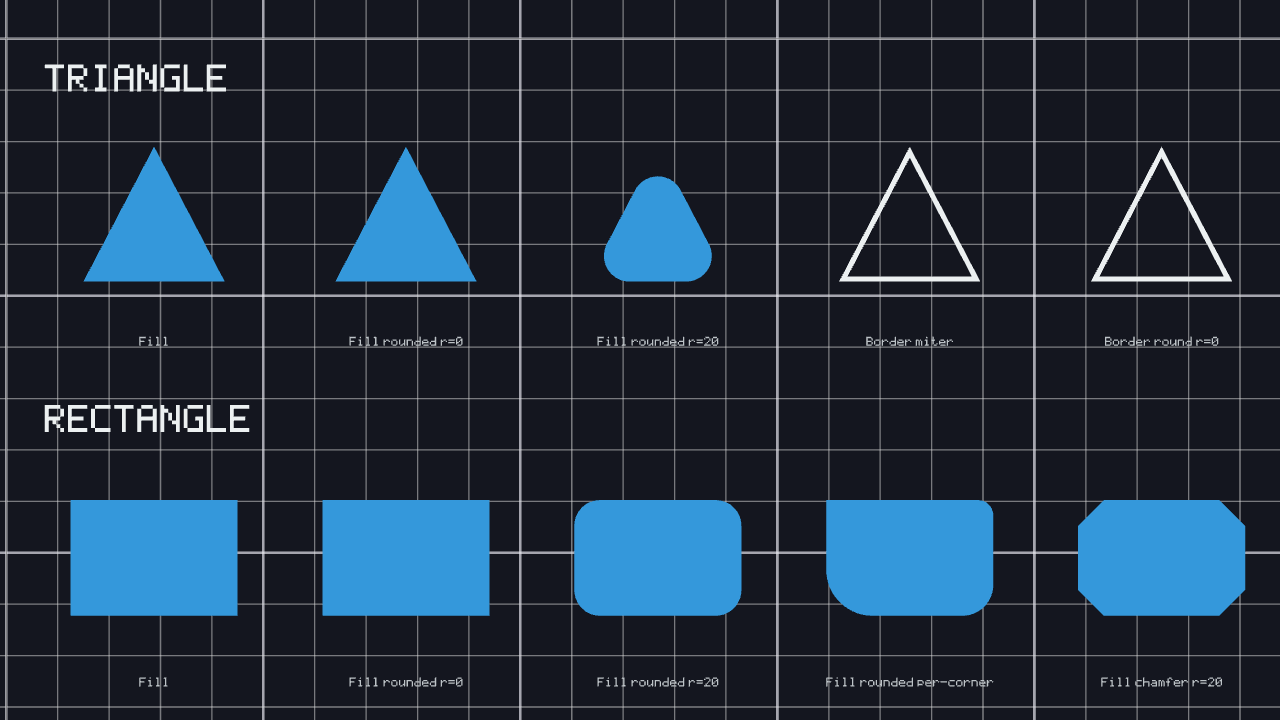
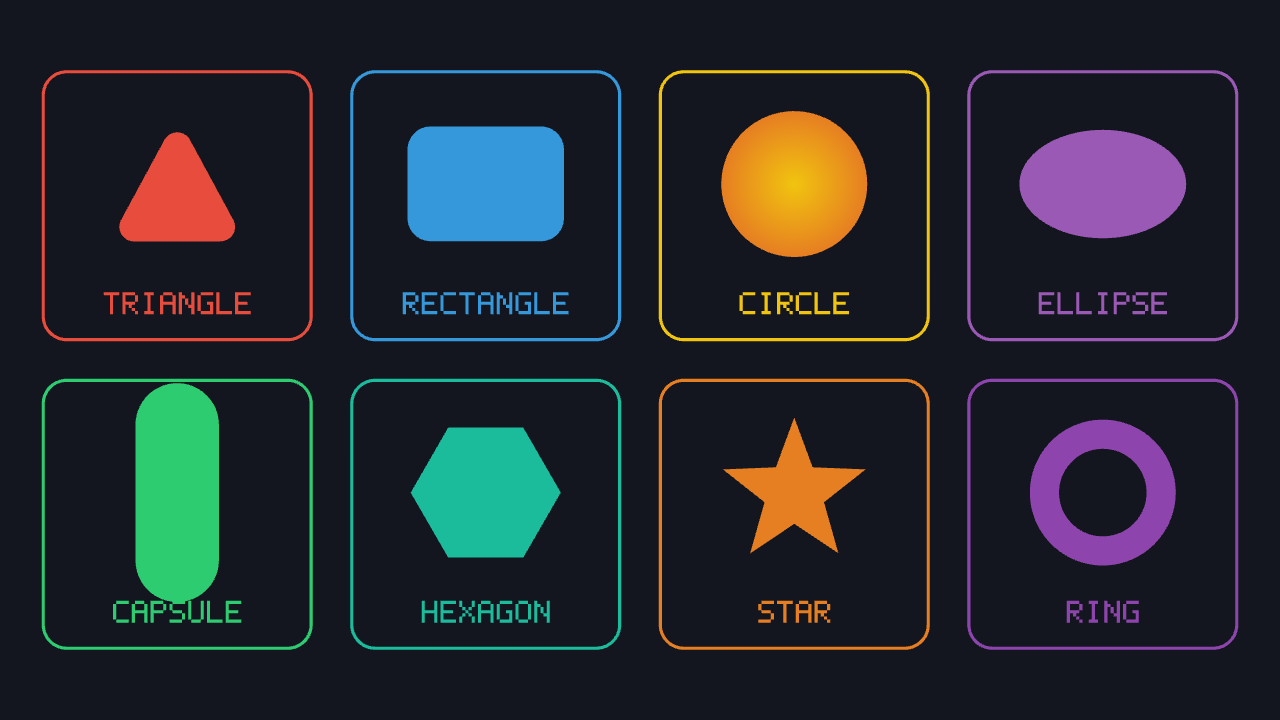
feat: add a curated Showcase2D/Showcase3D presentation view to the sample
The dev galleries (Gallery2D/Gallery3D) exist to eyeball every Fill/Border/Draw
variant at once and are unusable as marketing screenshots -- too dense, too
small, too much debug chrome (grid, axis, wireframes). Showcase2D/Showcase3D
are a separate, curated view (toggled with S alongside each dev gallery) built
specifically to produce clean README/guide images: a handful of shapes shown
large with real labels, bordered cards in 2D and a single depth-consistent row
with contact shadows in 3D. Regenerated img/hero.png, img/gallery_2d.png,
img/gallery_3d.png from it.

diff --git a/samples/MonoPrimitives.Sample/Game1.cs b/samples/MonoPrimitives.Sample/Game1.cs
@@ -35,6 +35,13 @@ public class Game1 : Game
     private Vector2 _gallery2DSize;
     private bool _tabWasDown;
 
+    // A second, curated view alongside each dev gallery -- Showcase2D/Showcase3D, toggled with S.
+    // Framed once on toggle-in via FitBounds (not every frame, so free-fly/pan still works
+    // afterward), not part of the library: exists purely to produce clean README/guide
+    // screenshots instead of the dev galleries' dense every-variant grids.
+    private bool _showcaseMode;
+    private bool _sWasDown;
+
     private const int ScreenSizeX = 1280;
     private const int SCreenSizeY = 720;
 
@@ -112,6 +119,10 @@ public class Game1 : Game
         if (tabDown && !_tabWasDown) _show2DGallery = !_show2DGallery;
         _tabWasDown = tabDown;
 
+        bool sDown = Keyboard.GetState().IsKeyDown(Keys.S);
+        if (sDown && !_sWasDown) ToggleShowcaseMode();
+        _sWasDown = sDown;
+
         if (_show2DGallery)
             UpdateGallery2DCamera(deltaTime);
         else
@@ -130,6 +141,41 @@ public class Game1 : Game
         _camera2d.UpdateWithInput(_input, deltaTime);
     }
 
+    // FitBounds runs once here (not every Draw) so the showcase starts framed correctly but the
+    // usual pan/zoom (2D) or free-fly (3D) controls still work normally afterward.
+    private void ToggleShowcaseMode()
+    {
+        _showcaseMode = !_showcaseMode;
+
+        if (_show2DGallery)
+        {
+            // FitBounds assumes the default Offset=viewport-center convention; the gallery's own
+            // pan/clamp design (UpdateGallery2DCamera) instead wants Offset=Zero so Target is the
+            // world point drawn at the screen's top-left corner -- swap conventions with the mode.
+            if (_showcaseMode)
+            {
+                Vector2 size = Showcase2D.GetContentSize();
+                _camera2d.Offset = new Vector2(ScreenSizeX / 2f, SCreenSizeY / 2f);
+                _camera2d.FitBounds(new MonoPrimitives.RectangleF(0, 0, size.X, size.Y), 40f, GraphicsDevice);
+            }
+            else
+            {
+                _camera2d.Offset = Vector2.Zero;
+            }
+        }
+        else if (_showcaseMode)
+        {
+            // Not FitBounds: its sphere-fit is conservative for a flat, wide layout like this row
+            // (bounded mostly by a large horizontal diagonal, tiny vertical extent), so it leaves
+            // far more margin than a manually placed camera needs to. A narrower fovy than the
+            // dev gallery's default 50 keeps the mostly-empty sky above the row out of frame.
+            Vector3 center = Showcase3D.GetContentCenter();
+            _camera3d.Fovy = 30f;
+            _camera3d.Target = center;
+            _camera3d.Position = center + new Vector3(0f, 12f, 32f);
+        }
+    }
+
     protected override void Draw(GameTime gameTime)
     {
         // TODO: Add your drawing code here
@@ -144,9 +190,16 @@ public class Game1 : Game
             GraphicsDevice.Clear(Palette.Background);
 
             _primitiveBatch.Begin(_camera2d.GetTransformMatrix());
-            _primitiveBatch.DrawGrid(80*4, 40f);
-            _primitiveBatch.DrawAxis(2000f);
-            _gallery2DSize = Gallery2D.Draw(_primitiveBatch);
+            if (_showcaseMode)
+            {
+                _gallery2DSize = Showcase2D.Draw(_primitiveBatch);
+            }
+            else
+            {
+                _primitiveBatch.DrawGrid(80*4, 40f);
+                _primitiveBatch.DrawAxis(2000f);
+                _gallery2DSize = Gallery2D.Draw(_primitiveBatch);
+            }
             _primitiveBatch.End();
         }
         else
@@ -158,13 +211,20 @@ public class Game1 : Game
 
             _primitive3DBatch.Begin(_camera3d);
 
-            // Large enough to cover Gallery3D's full extent (13 rows deep, up to 6 cells wide).
-            int slices = 140;
-            float spacing = 2f;
-            _primitive3DBatch.DrawGridXZ(slices, spacing);
-            _primitive3DBatch.DrawAxis(slices * spacing * 0.5f);
+            if (_showcaseMode)
+            {
+                Showcase3D.Draw(_primitive3DBatch);
+            }
+            else
+            {
+                // Large enough to cover Gallery3D's full extent (13 rows deep, up to 6 cells wide).
+                int slices = 140;
+                float spacing = 2f;
+                _primitive3DBatch.DrawGridXZ(slices, spacing);
+                _primitive3DBatch.DrawAxis(slices * spacing * 0.5f);
 
-            Gallery3D.Draw(_primitive3DBatch);
+                Gallery3D.Draw(_primitive3DBatch);
+            }
 
             _primitive3DBatch.End();
         }

diff --git a/samples/MonoPrimitives.Sample/Showcase3D.cs b/samples/MonoPrimitives.Sample/Showcase3D.cs
@@ -1,0 +1,82 @@
+using System;
+using Microsoft.Xna.Framework;
+
+using MonoPrimitives;
+using MonoPrimitives.Primitives3D;
+
+namespace MonogameLibs;
+
+/// <summary>
+/// A curated, presentation-quality shape showcase: one representative shape each, evenly spaced
+/// with a soft contact shadow and a centered label -- not Gallery3D's exhaustive per-row
+/// Fill/Border/Draw matrix. Not part of the library; exists purely to produce README/guide
+/// screenshots that read clearly at a glance instead of the dev gallery's dense grid. Content
+/// grows along +X from the origin, all in a single row (see the class remarks below for why).
+/// </summary>
+internal static class Showcase3D
+{
+    private const float ColumnSpacing = 6.5f;
+    private const float LabelPixelSize = 0.1f;
+
+    private static readonly Color ShadowColor = new(0, 0, 0, 60);
+
+    private readonly record struct Item(string Label, Color Color, Action<Primitive3DBatch, Vector3, Color> Draw);
+
+    // Five iconic primitives in a single row, not Gallery3D's full 14-row-deep surface. A single
+    // row keeps every shape at the same camera distance -- two rows at different depths made the
+    // far row noticeably smaller and pushed the framing math around fighting that mismatch,
+    // exactly the kind of "show less but show it well" tradeoff this class exists for. Base
+    // position is ground level (Y=0) for every shape, elevated internally by each draw call as
+    // needed -- same convention FillCylinder/FillCube's own "position" parameter uses.
+    private static readonly Item[] Items =
+    {
+        new("CUBE", Palette.PeterRiver, (b, c, col) => b.FillCube(c + Vector3.UnitY * 1.2f, Vector3.One * 2.4f, col)),
+        new("SPHERE", Palette.Alizarin, (b, c, col) => b.FillSphere(c + Vector3.UnitY * 1.3f, 1.3f, col)),
+        new("CYLINDER", Palette.Emerald, (b, c, col) => b.FillCylinder(c, 1.1f, 1.1f, 2.4f, 24, col)),
+        new("CONE", Palette.Sunflower, (b, c, col) => b.FillCylinder(c, 0f, 1.2f, 2.6f, 24, col)),
+        new("TORUS", Palette.Turquoise, (b, c, col) => b.FillTorus(c + Vector3.UnitY * 0.45f, 1.2f, 0.45f, 24, 24, col)),
+    };
+
+    /// <summary>World bounds of the curated grid, without drawing anything -- for framing a camera before the first <see cref="Draw"/> call.</summary>
+    public static BoundingBox GetContentBounds()
+    {
+        Vector3 min = new(-1.6f, 0f, -1.6f);
+        Vector3 max = new((Items.Length - 1) * ColumnSpacing + 1.6f, 2.6f, 1.6f);
+        return new BoundingBox(min, max);
+    }
+
+    /// <summary>Center of <see cref="GetContentBounds"/>, for pointing a curated camera at the grid.</summary>
+    public static Vector3 GetContentCenter()
+    {
+        BoundingBox b = GetContentBounds();
+        return (b.Min + b.Max) * 0.5f;
+    }
+
+    /// <summary>Draws the curated grid starting at the origin and returns its world bounds (for camera framing).</summary>
+    public static BoundingBox Draw(Primitive3DBatch batch)
+    {
+        for (int i = 0; i < Items.Length; i++)
+        {
+            Vector3 baseCenter = new(i * ColumnSpacing, 0f, 0f);
+
+            batch.FillCircle3D(baseCenter + Vector3.UnitY * 0.01f, 1.5f, Vector3.UnitX, 90f, ShadowColor);
+            Items[i].Draw(batch, baseCenter, Items[i].Color);
+            // Offset toward the curated camera (see Game1.ToggleShowcaseMode, positioned on the
+            // +Z side) instead of sitting directly under the shape, so the shape itself doesn't
+            // occlude its own label.
+            DrawCenteredCaption(batch, Items[i].Label, baseCenter + Vector3.UnitZ * 2f);
+        }
+
+        return GetContentBounds();
+    }
+
+    // Same centering trick Gallery3D's own caption uses: measure the billboarded text and offset
+    // by half its width along the billboard's own right axis, so it centers correctly from any
+    // viewing angle instead of only from straight ahead.
+    private static void DrawCenteredCaption(Primitive3DBatch batch, string text, Vector3 anchor)
+    {
+        batch.GetBillboardAxes(anchor, out Vector3 right, out _);
+        Vector2 size = Primitive3DBatch.MeasureText3D(text, LabelPixelSize);
+        batch.DrawString3D(text, anchor - right * (size.X * 0.5f), LabelPixelSize, Palette.MidnightBlue);
+    }
+}

diff --git a/samples/MonoPrimitives.Sample/Showcase2D.cs b/samples/MonoPrimitives.Sample/Showcase2D.cs
@@ -1,0 +1,75 @@
+using System;
+using Microsoft.Xna.Framework;
+
+using MonoPrimitives;
+using MonoPrimitives.Primitives2D;
+
+namespace MonogameLibs;
+
+/// <summary>
+/// A curated, presentation-quality shape showcase: a handful of shapes in bordered cards with a
+/// centered label -- not Gallery2D's exhaustive per-row Fill/Border/Draw/LineJoin matrix. Not
+/// part of the library; exists purely to produce README/guide screenshots that read clearly at a
+/// glance instead of the dev gallery's dense grid. Content grows left-to-right/top-to-bottom from
+/// the origin.
+/// </summary>
+internal static class Showcase2D
+{
+    private const float CardSize = 260f;
+    private const float Gap = 36f;
+    private const float LabelPixelSize = 3f;
+    private const int Columns = 4;
+
+    private readonly record struct Item(string Label, Color Accent, Action<Primitive2DBatch, Vector2> Draw);
+
+    private static readonly Item[] Items =
+    {
+        new("TRIANGLE", Palette.Alizarin, (b, c) => b.FillTriangleRounded(c + new Vector2(-65, 55), c + new Vector2(65, 55), c + new Vector2(0, -65), 14f, Palette.Alizarin)),
+        new("RECTANGLE", Palette.PeterRiver, (b, c) => b.FillRectangleRounded(c - new Vector2(75, 55), new Vector2(150, 110), 22f, Palette.PeterRiver)),
+        new("CIRCLE", Palette.Sunflower, (b, c) => b.FillCircleGradient(c, 70f, Palette.Sunflower, Palette.Carrot)),
+        new("ELLIPSE", Palette.Amethyst, (b, c) => b.FillEllipse(c, 80f, 52f, Palette.Amethyst)),
+        new("CAPSULE", Palette.Emerald, (b, c) => b.FillCapsule(c, 130f, 40f, Palette.Emerald, MathF.PI / 2f)),
+        new("HEXAGON", Palette.Turquoise, (b, c) => b.FillPoly(c, 6, 72f, Palette.Turquoise)),
+        new("STAR", Palette.Carrot, (b, c) => b.FillPolygon(StarPoints(c, 72f, 30f, 5), Palette.Carrot)),
+        new("RING", Palette.Wisteria, (b, c) => b.FillRing(c, 42f, 70f, Palette.Wisteria)),
+    };
+
+    /// <summary>Total content size, without drawing anything -- for framing a camera before the first <see cref="Draw"/> call.</summary>
+    public static Vector2 GetContentSize()
+    {
+        int rows = (Items.Length + Columns - 1) / Columns;
+        return new Vector2(Columns * CardSize + (Columns - 1) * Gap, rows * CardSize + (rows - 1) * Gap);
+    }
+
+    /// <summary>Draws the curated card grid starting at the origin and returns its total content size (for camera framing).</summary>
+    public static Vector2 Draw(Primitive2DBatch batch)
+    {
+        for (int i = 0; i < Items.Length; i++)
+        {
+            int col = i % Columns, row = i / Columns;
+            Vector2 cardTopLeft = new(col * (CardSize + Gap), row * (CardSize + Gap));
+            Vector2 shapeCenter = cardTopLeft + new Vector2(CardSize * 0.5f, CardSize * 0.42f);
+
+            batch.BorderRectangleRounded(cardTopLeft, new Vector2(CardSize, CardSize), 24f, Items[i].Accent, thickness: 3f);
+            Items[i].Draw(batch, shapeCenter);
+
+            Vector2 labelSize = DebugFont5x7.MeasureText(Items[i].Label, LabelPixelSize);
+            Vector2 labelPos = cardTopLeft + new Vector2((CardSize - labelSize.X) * 0.5f, CardSize - labelSize.Y - 26f);
+            batch.DrawString(Items[i].Label, labelPos, LabelPixelSize, Items[i].Accent);
+        }
+
+        return GetContentSize();
+    }
+
+    private static Vector2[] StarPoints(Vector2 center, float outerRadius, float innerRadius, int points)
+    {
+        var result = new Vector2[points * 2];
+        for (int i = 0; i < result.Length; i++)
+        {
+            float radius = (i % 2 == 0) ? outerRadius : innerRadius;
+            float angle = -MathF.PI / 2f + i * MathF.PI / points;
+            result[i] = center + new Vector2(MathF.Cos(angle), MathF.Sin(angle)) * radius;
+        }
+        return result;
+    }
+}

diff --git a/Design/ARCHITECTURE.md b/Design/ARCHITECTURE.md
@@ -60,7 +60,7 @@ Shared foundation used by both 2D and 3D — nothing here is 2D- or 3D-specific.
 
 ## `samples/MonoPrimitives.Sample/`
 
-Minimal runnable MonoGame game referencing `MonoPrimitives`, plus `MonoGame.Extended` (sample-only). Proves the package works end-to-end; not a real game. Tab toggles between two visual-regression galleries — `Gallery2D.cs` (2D, camera-controlled) and `Gallery3D.cs` (3D, free-fly camera) — both the same row-per-shape-family/cell-per-Fill-Border-Draw-variant/text-caption structure, so a change to either library can be eyeballed the same way.
+Minimal runnable MonoGame game referencing `MonoPrimitives`, plus `MonoGame.Extended` (sample-only). Proves the package works end-to-end; not a real game. Tab toggles between two visual-regression galleries — `Gallery2D.cs` (2D, camera-controlled) and `Gallery3D.cs` (3D, free-fly camera) — both the same row-per-shape-family/cell-per-Fill-Border-Draw-variant/text-caption structure, so a change to either library can be eyeballed the same way. `S` toggles a second, curated view alongside whichever gallery is active — `Showcase2D.cs`/`Showcase3D.cs`, a handful of shapes shown large and clearly labeled (bordered cards in 2D, a single depth-consistent row with contact shadows in 3D) instead of the dev galleries' exhaustive every-variant grids. Not part of the library; exists to produce the README/guide screenshots under `img/`.
 
 ## `templates/PrimitiveBase/`
 

diff --git a/Guide/Primitive2DBatch_Guide.md b/Guide/Primitive2DBatch_Guide.md
@@ -4,8 +4,8 @@
 
 This guide covers every public method, grouped by shape family, plus the handful of conventions that apply across all of them and the non-obvious mechanics behind gradients, shadows, and segment counts. For per-parameter detail beyond what's here, the XML doc comments on each method in `Primitives2D.cs` go deeper.
 
-![Every 2D shape family, one row each with its Fill/Border/Draw variants](../img/gallery_2d.png)
-<br><sub>`samples/MonoPrimitives.Sample`'s `Gallery2D` — every shape below, rendered.</sub>
+![A curated set of 2D shapes, each in its own bordered card](../img/gallery_2d.png)
+<br><sub>`samples/MonoPrimitives.Sample`'s `Showcase2D` — a curated sample, not the exhaustive per-variant `Gallery2D` dev gallery also in that project.</sub>
 
 ## Quick start
 

diff --git a/Guide/Primitive3DBatch_Guide.md b/Guide/Primitive3DBatch_Guide.md
@@ -4,8 +4,8 @@
 
 This guide covers every public method, grouped by shape family. For per-parameter detail beyond what's here, the XML doc comments in `Primitive3DBatchShapes.cs` go deeper.
 
-![Cube, sphere, cylinder, cone, capsule and more, each labeled with a billboarded 3D caption](../img/gallery_3d.png)
-<br><sub>`samples/MonoPrimitives.Sample`'s `Gallery3D` — a subset of the rows, rendered.</sub>
+![Cube, sphere, cylinder, cone, and torus, each with a labeled contact shadow](../img/gallery_3d.png)
+<br><sub>`samples/MonoPrimitives.Sample`'s `Showcase3D` — a curated sample, not the exhaustive per-row `Gallery3D` dev gallery also in that project.</sub>
 
 ## Quick start
 
